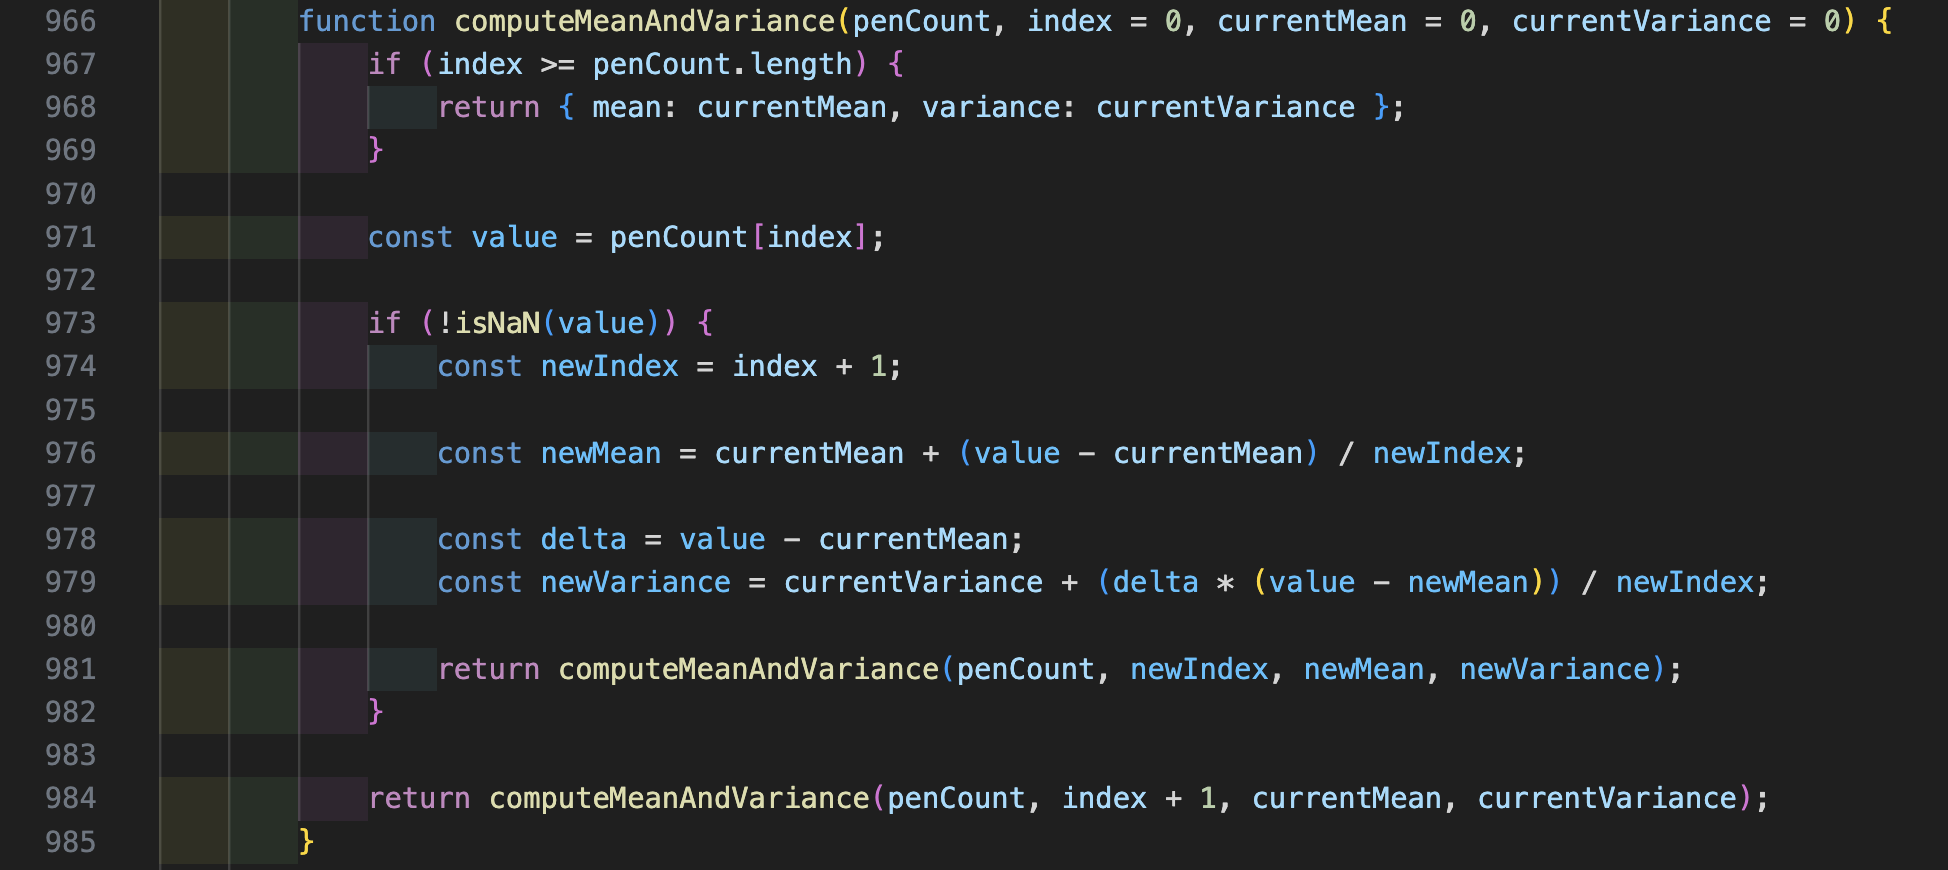
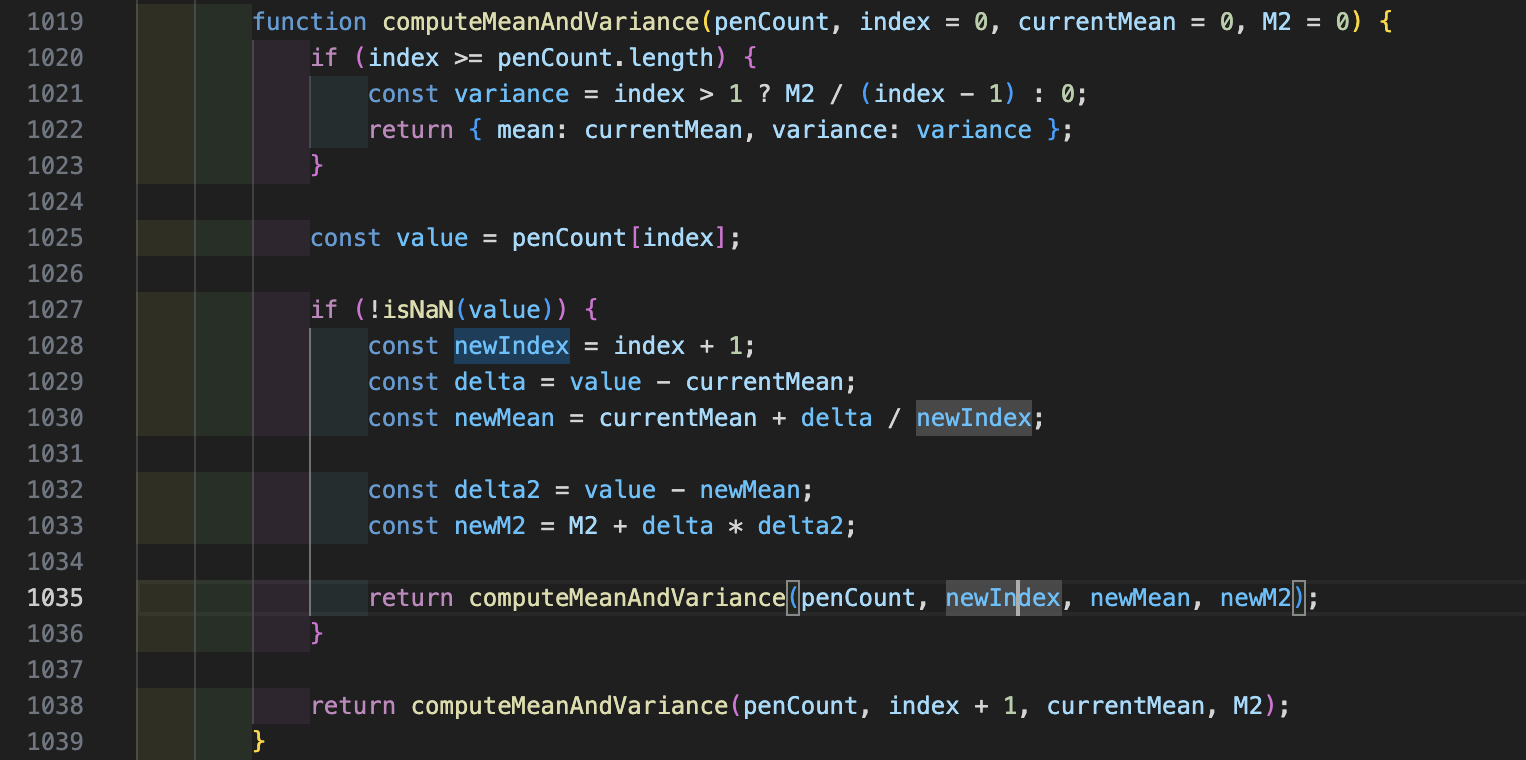
Fixed Variance Calculation

diff --git a/hw2/hw2_practice.html b/hw2/hw2_practice.html
@@ -599,9 +599,13 @@
             <h2>Creating Charts</h2>
             <p>
                 As for the first homework, createChart() function is responsible for creating the first chart and
-                createSecondChart() function creates the second chart.<br/>
-                In this homework createThirdChart() is introduced to show how many attackers have succeeded in penetrating a certain number of servers for an intermediate step.<br/><br/>
-                A new function introduced is also createFourthChart(), which is used to rapresent the Absolute and Realative Frequency, where the x-axis represents the number of servers and the y-axis represents the number of successful penetrations in each step for the absolute frequency, and the number of successful penetrations divided by all the step for the relative frequency.<br />
+                createSecondChart() function creates the second chart.<br />
+                In this homework createThirdChart() is introduced to show how many attackers have succeeded in
+                penetrating a certain number of servers for an intermediate step.<br /><br />
+                A new function introduced is also createFourthChart(), which is used to rapresent the Absolute and
+                Realative Frequency, where the x-axis represents the number of servers and the y-axis represents the
+                number of successful penetrations in each step for the absolute frequency, and the number of successful
+                penetrations divided by all the step for the relative frequency.<br />
                 <img src="./code-1.png">
                 <br /><br />
             <h2>Data Generation</h2>
@@ -609,29 +613,39 @@
             For each attacker, an attack against a list of servers is simulated and a calculation is made of how many
             servers it manages to penetrate.<br />
             For each server, a random value between 0 and 1 is generated using Math.random(). If this value is less than
-            the probability of success (indicated by the user), the attacker succeeds in penetrating that server (jump +1), otherwise the attacker fails (jump -1).<br />
+            the probability of success (indicated by the user), the attacker succeeds in penetrating that server (jump
+            +1), otherwise the attacker fails (jump -1).<br />
             The results are stored in a ‘dataset’, where each attacker has a line tracking how many servers he has
             penetrated as the attack progresses.<br /><br />
-            In the meanwhile also the number of successful jumps done in each step is saved in an array for the absolute frequency, and for the relative frequency the latter array is taken and copied to another array by dividing each element for the total numebr of steps.<br /><br />
+            In the meanwhile also the number of successful jumps done in each step is saved in an array for the absolute
+            frequency, and for the relative frequency the latter array is taken and copied to another array by dividing
+            each element for the total numebr of steps.<br /><br />
             <img src="./code-2.png">
             <br /><br />
             <h2>Mean and Variance Calculation</h2>
-            As for the first homework, this function calculates the average number of servers penetrated by all attackers using recursion.<br />
+            As for the first homework, this function calculates the average number of servers penetrated by all
+            attackers using recursion.<br />
             The idea is to gradually add up the values of servers penetrated by each attacker and update the average
-            step by step.<br /><br />
-            In this homework this funcion has been updated to calculate the variance in the same way.<br /><br />
+            step by step using the following formula: \[ \mu_n = \mu_{n-1} + \frac{x_n - \mu_{n-1}}{n} \]<br /><br />
+            In this homework this funcion has been updated to calculate the variance in the same way using the following formula: \[ M_n = M_{n-1} + (x_n - \mu_n)(x_n - \mu_{n-1}) \]<br /><br />
             <img src="./code-3.png">
             <br /><br />
             <h2>Distribution Calculation</h2>
-            This function calculates how many attackers have succeeded in penetrating a certain number of servers for an intermediate step in order to show the intermediate (and/or final) distribution.<br/>
-            It also calculates the number of penetrated and failed to penetrate systems for each attacker, which is then used to calculate mean and variance<br /><br />
+            This function calculates how many attackers have succeeded in penetrating a certain number of servers for an
+            intermediate step in order to show the intermediate (and/or final) distribution.<br />
+            It also calculates the number of penetrated and failed to penetrate systems for each attacker, which is then
+            used to calculate mean and variance<br /><br />
             <img src="./code-4.png">
             <br /><br />
             <h2>HTML form management</h2>
-            As for the first homework, when the user submits the form, the values entered for the number of servers (integer1), the number of
-            attackers (integer2), the probability of success (p) and the intermidiate step (integer3) are collected.<br />
-            These values are used to generate the attack data, compute all the distribution, mean, variance and frequencies in order to create or update the graphs.<br />
-            After the graphs have been created, the value of the mean and variance for both the distribution are shown.<br /><br />
+            As for the first homework, when the user submits the form, the values entered for the number of servers
+            (integer1), the number of
+            attackers (integer2), the probability of success (p) and the intermidiate step (integer3) are
+            collected.<br />
+            These values are used to generate the attack data, compute all the distribution, mean, variance and
+            frequencies in order to create or update the graphs.<br />
+            After the graphs have been created, the value of the mean and variance for both the distribution are
+            shown.<br /><br />
             <img src="./code-5.png">
             <br /><br />
             </p>
@@ -1002,25 +1016,26 @@
         }
 
 
-        function computeMeanAndVariance(penCount, index = 0, currentMean = 0, currentVariance = 0) {
+        function computeMeanAndVariance(penCount, index = 0, currentMean = 0, M2 = 0) {
             if (index >= penCount.length) {
-                return { mean: currentMean, variance: currentVariance };
+                const variance = index > 1 ? M2 / (index - 1) : 0;
+                return { mean: currentMean, variance: variance };
             }
 
             const value = penCount[index];
 
             if (!isNaN(value)) {
                 const newIndex = index + 1;
-
-                const newMean = currentMean + (value - currentMean) / newIndex;
-
                 const delta = value - currentMean;
-                const newVariance = currentVariance + (delta * (value - newMean)) / newIndex;
+                const newMean = currentMean + delta / newIndex;
 
-                return computeMeanAndVariance(penCount, newIndex, newMean, newVariance);
+                const delta2 = value - newMean;
+                const newM2 = M2 + delta * delta2;
+
+                return computeMeanAndVariance(penCount, newIndex, newMean, newM2);
             }
 
-            return computeMeanAndVariance(penCount, index + 1, currentMean, currentVariance);
+            return computeMeanAndVariance(penCount, index + 1, currentMean, M2);
         }
 
 
@@ -1145,6 +1160,8 @@
         });
     </script>
     <script src="https://cdn.jsdelivr.net/npm/bootstrap@5.3.0-alpha1/dist/js/bootstrap.bundle.min.js"></script>
+    <script type="text/javascript" async src="https://cdnjs.cloudflare.com/ajax/libs/mathjax/3.1.2/es5/tex-mml-chtml.js">
+    </script>
 </body>
 
 </html>

diff --git a/hw1/hw1_practice.html b/hw1/hw1_practice.html
@@ -532,7 +532,7 @@
             <h2>Average calculation</h2>
             This function calculates the average number of servers penetrated by all attackers using recursion.<br />
             The idea is to gradually add up the values of servers penetrated by each attacker and update the average
-            step by step.<br /><br />
+            step by step using the following formula: \[ \mu_n = \mu_{n-1} + \frac{x_n - \mu_{n-1}}{n} \]<br /><br />
             <img src="./code-3.png">
             <br /><br />
             <h2>HTML form management</h2>
@@ -828,6 +828,9 @@
         });
     </script>
     <script src="https://cdn.jsdelivr.net/npm/bootstrap@5.3.0-alpha1/dist/js/bootstrap.bundle.min.js"></script>
+    <script type="text/javascript" async src="https://cdnjs.cloudflare.com/ajax/libs/mathjax/3.1.2/es5/tex-mml-chtml.js">
+    </script>
+    
 </body>
 
 </html>
